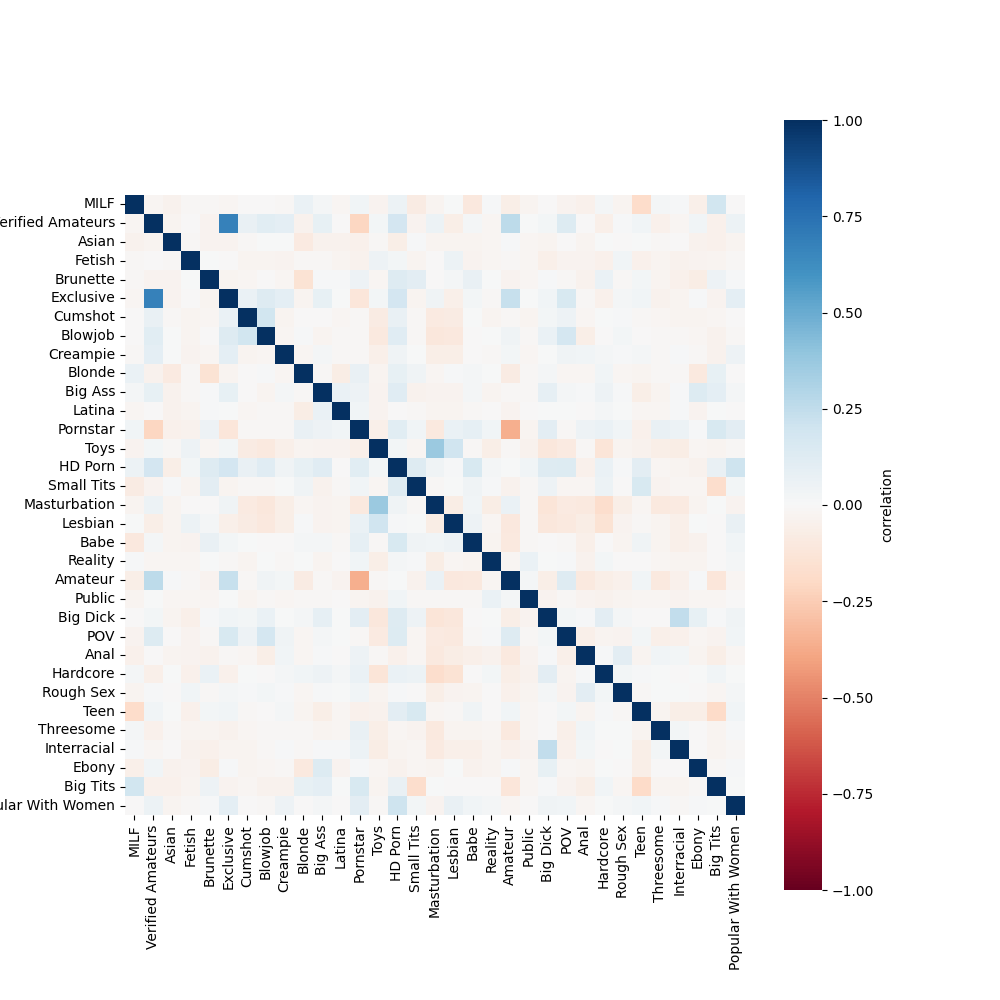
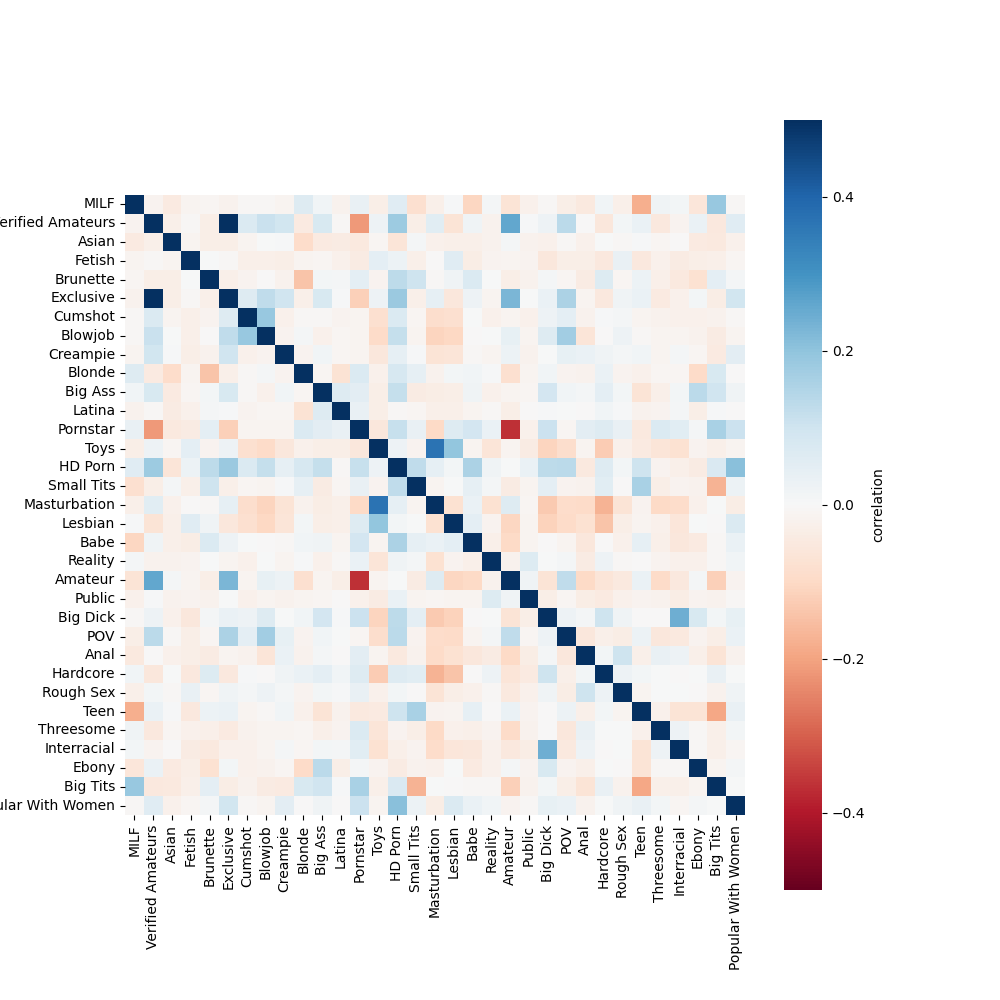
change correlation to 0.5

diff --git a/tag_correlation.py b/tag_correlation.py
@@ -94,8 +94,8 @@ plt.figure(figsize=(10, 10))
 sns.heatmap(
     correlations,
     cmap="RdBu",
-    vmin=-1,
-    vmax=1,
+    vmin=-0.5,
+    vmax=0.5,
     square=True,
     cbar_kws={"label": "correlation"},
 )
